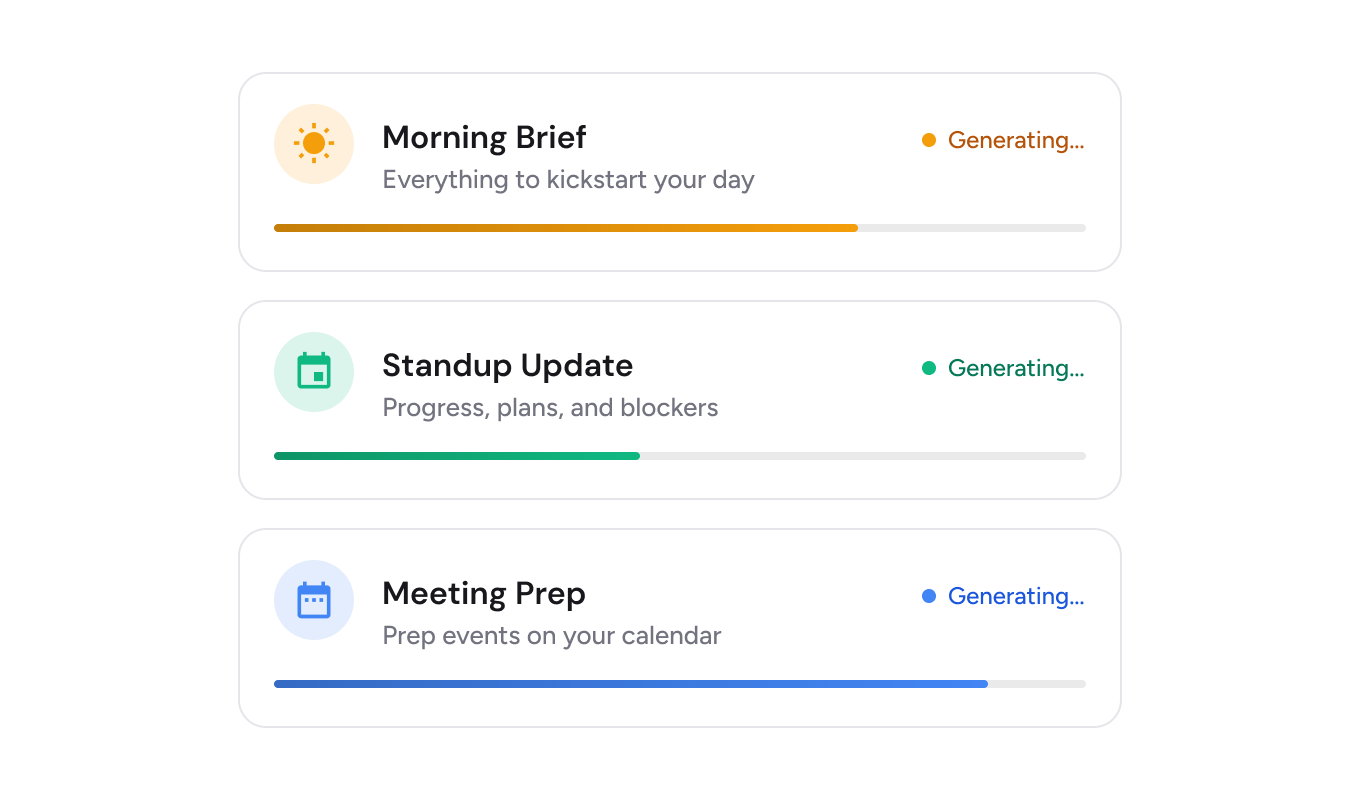
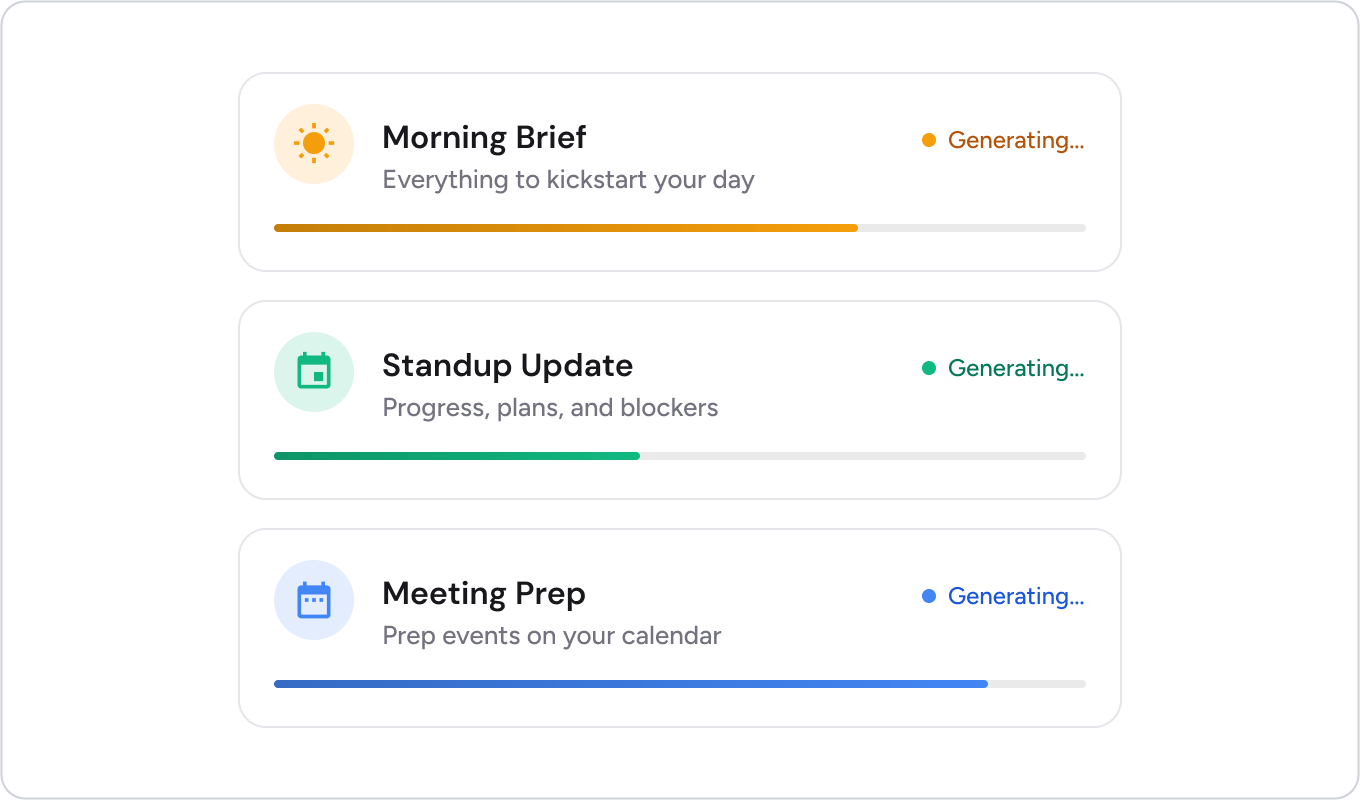
Match 6.1.0 notes to desktop app
Use the exact app copy and image set, with light/dark variants and baked rounded gray borders for clean GitHub rendering.

Changed region(s): [[0.0, 0.0, 1.0, 1.0]]

diff --git a/releases/Whats New in Pieces 6.1.0.md b/releases/Whats New in Pieces 6.1.0.md
@@ -1,150 +1,162 @@
-# What's new in Pieces 6.1.0
+# Pieces Desktop 6.1.0: Claude Desktop MCP, Grounded Summaries & Person Intelligence
+### Release Date: July 29, 2026
 
-**Release date:** July 29, 2026
-**Pieces Desktop:** 6.1.0
+**Want to read this in your browser or explore past releases?** [View all release notes on GitHub](https://github.com/pieces-app/pro_tips/tree/main/releases)
 
-Pieces 6.0.0 changed how the agent reasons across your memory. Pieces 6.1.0 improves the source material behind that reasoning. Summaries now use open-file signals and browser activity, while the people, tags, and anchors they mention appear as live references instead of plain text. This extends the grounding introduced with Google Calendar in 6.0.0 to more of your workstream.
+6.0.0 rebuilt how the agent reasons about your memory. 6.1.0 is about what that reasoning is standing on.
 
-The release also removes several points of friction. Pieces provides managed MCP setup for seven clients shown in Settings, while OpenClaw links to setup documentation. Claude Desktop no longer needs Node.js, npx, or a separate bridge installation. Single-click summaries can run concurrently, Long-Term Memory can pause for a custom duration, and capture uses fewer resources when your computer is idle or locked.
+Two themes run through this release. The first is **grounding** — summaries now read the real signals instead of interpreting a noisy picture of your day. The actual files you had open. Your actual browsing activity. The real people you interact with, as live references rather than plain text. It is the same idea behind connecting your calendar in 6.0.0, applied to the rest of your workstream.
+
+The second is **getting out of your way**. Claude Desktop finally connects without a Node.js prerequisite. Single-click summaries run in parallel instead of queuing. You can pause Long-Term Memory for any duration you like. And capture itself got meaningfully lighter, with Pieces backing off when you are not at your desk.
+
+Here is what is new.
 
 ---
 
-## 🔗 MCP setup for the agents you already use
+## 🔗 Connect Claude Desktop Without Installing Anything
 
 <picture>
   <source media="(prefers-color-scheme: dark)" srcset="../assets/6_1_0_claude_desktop_mcp_setup_dark.png">
-  <img src="../assets/6_1_0_claude_desktop_mcp_setup_light.png" alt="Pieces MCP settings showing Claude Code, Claude Desktop, and Cursor connected to Pieces.">
+  <img src="../assets/6_1_0_claude_desktop_mcp_setup_light.png" alt="Claude Desktop MCP Setup">
 </picture>
 
-The **Settings → MCP** page is the central place to connect Pieces to the agents you use every day. Pieces 6.1.0 presents eight clients and provides managed setup for seven of them.
+Connecting Claude Desktop to Pieces no longer requires installing anything.
 
-| Client | How Pieces connects it |
-|--------|-------------------------|
-| Claude Code | Managed Streamable HTTP connection, plus a Pieces skill |
-| Claude Desktop | Managed stdio connection through the bundled Pieces MCP bridge |
-| Cursor | Managed Streamable HTTP connection, plus a Pieces rule |
-| GitHub Copilot in VS Code | Managed connection through the VS Code user-profile `mcp.json` |
-| Codex CLI and IDE extension | Managed connection through the shared Codex configuration |
-| Google Gemini CLI | Managed connection through Gemini's settings file |
-| Antigravity | Managed connection through its Gemini configuration directory |
-| OpenClaw | Setup documentation from the MCP catalog |
+Unlike editors that connect over HTTP, Claude Desktop talks to Pieces through a **stdio bridge** — and until now that bridge needed Node.js and npx on your machine, which is exactly where most setups fell apart. Pieces now ships that bridge itself, **code-signed**, on macOS, Windows, and Linux. Pick Claude Desktop, click connect, and Pieces writes the config for you.
 
-Available clients appear first. If a client is not installed or cannot be detected, Pieces keeps it in the catalog but hides the connect action until it becomes available.
+### What is better
 
-### Claude Desktop no longer needs Node.js or npx
+- **No Node.js or npx prerequisite** — the bridge comes bundled with Pieces
+- A clear prompt when Claude Desktop needs to restart to pick up the change, with a button that does it for you
+- On **Linux**, Pieces now notices Claude Desktop is already running and walks you through quitting first, instead of silently writing a config Claude would immediately overwrite
+- **Snap and Flatpak** installs work — sandboxed bridge paths finally resolve correctly
 
-The MCP catalog and one-click setup arrived in Pieces 6.0.0. In 6.1.0, Claude Desktop's setup no longer depends on Node.js, npx, or `mcp-remote`.
+### Why it matters
 
-Claude Desktop is different from HTTP-native clients such as Cursor, Claude Code, Codex, and Gemini CLI. It communicates over stdio, so earlier versions of Pieces relied on Node.js, npx, and `mcp-remote` to bridge Claude Desktop to PiecesOS.
+One-click MCP setup shipped in 6.0.0, but Claude Desktop was the client most likely to leave you hand-editing JSON anyway. If it is the one client you could never quite get connected, this is the release that fixes it.
 
-PiecesOS now bundles `pieces-mcp-bridge`, and the desktop app writes the correct Claude Desktop configuration automatically. You no longer need to install Node.js, run npx, install `mcp-remote`, or edit Claude's JSON configuration by hand.
-
-The setup also handles the details around the connection:
-
-- On macOS and Windows, Pieces can tell you when Claude Desktop needs to restart and relaunch it for you.
-- On Linux, where Claude Desktop has no official build, Pieces checks its Electron lock files and, when it appears to be running, guides you through quitting and reopening it manually. Automatic relaunch is not available.
-- PiecesOS installations distributed through Snap or Flatpak resolve the bundled bridge through stable, host-visible paths.
-- The bridge is signed as part of the macOS package and Authenticode-signed for Windows releases.
-
-Keep PiecesOS running while you connect Claude Desktop so the desktop app can locate and validate the bundled bridge. Then open **Settings → MCP**, choose **Claude Desktop**, and connect it.
+Head to **Settings → MCP** to connect.
 
 ---
 
-## 🗂 Ground summaries in open files and browser activity
+## 🗂 Summaries Grounded in the Files and Sites You Actually Used
 
-Pieces now uses the files open during a summary's time window and your browser activity as source context. Earlier versions inferred much of this from screen captures and focus events.
+<picture>
+  <source media="(prefers-color-scheme: dark)" srcset="../assets/6_1_0_summaries_grounded_in_files_and_browsing_dark.png">
+  <img src="../assets/6_1_0_summaries_grounded_in_files_and_browsing_light.png" alt="Grounded Summaries">
+</picture>
 
-The open-file signal includes files that your operating system never marked as recently used.
+Your summaries now know **which files you actually had open** and **which sites you actually visited**.
 
-Browser activity now contributes directly to the same summary context. When a summary references a source file, the citation is clickable, so you can move from the summary back to the artifact without searching for it again.
+Previously Pieces inferred a lot of this from what happened to be on screen. Now it reads the real signals: the files you had open during the window being summarized — including ones your OS never registered as "recently used" — and your actual browsing activity, instead of guessing from focus events.
 
-This follows the approach introduced with Google Calendar in 6.0.0. Pieces reads from the underlying source instead of reconstructing the entire activity from visual evidence. The result is a summary tied to the files and sites involved in the work it describes.
+### What is new
+
+- Real open-file signals, not focus-event approximations
+- Actual browsing activity feeding summary context
+- **Files cited in a summary are clickable** — jump straight from "here is what you worked on" to the thing you worked on
+
+### Why it matters
+
+It is the same idea behind connecting your calendar: stop interpreting a noisy picture of your day and read from the source instead. The result is summaries that point at real artifacts you can open, not approximations of them.
 
 ---
 
-## 👤 See person context from a summary
+## 👤 Hover Anyone in a Summary to See Who They Are
 
-Pieces detects people mentioned across your workstream and makes their names hoverable in summaries. Hovering a name opens a persona card with the person's identity, contact information, role, and an evolving picture of how you work together.
+<picture>
+  <source media="(prefers-color-scheme: dark)" srcset="../assets/6_1_0_inline_person_intelligence_dark.png">
+  <img src="../assets/6_1_0_inline_person_intelligence_light.png" alt="Inline Person Intelligence">
+</picture>
 
-The relationship context comes from your interactions over time rather than a static contact record. Tags and anchors also appear as live references, so the entities in a summary can carry context of their own.
+The people in your summaries are now **people you can actually learn about**.
 
-This helps when you need to place someone you met once, review an attendee before a meeting without leaving the page, or return to the last decision you made with a teammate.
+Pieces detects who gets mentioned across your workstream and turns each one into a rich, hoverable reference. Hover any name in a summary and you will get a **persona card** — who they are, how to reach them, their role, and a running picture of how you two actually work together, built from your real interactions over time rather than a static contact record.
 
-Pieces 6.0.0 improved how the product distinguishes people. Pieces 6.1.0 exposes that understanding inside summaries, briefs, and chats.
+Tags and anchors work the same way, so the entities in your summaries are live references instead of plain text.
+
+### When it helps
+
+- A summary mentions someone you have met once and cannot quite place
+- You are walking into a meeting and want context on an attendee without leaving the page
+- You need to recall what you and a teammate last decided together
+
+### Why it matters
+
+6.0.0 improved how well Pieces tells people apart. This release puts that understanding somewhere you can actually use it. The better Pieces understands who is who, the more useful every summary, brief, and chat built on top of that becomes.
 
 ---
 
-## 🔀 Run several single-click summaries at once
+## 🔀 Run Several Single-Click Summaries at Once
 
 <picture>
   <source media="(prefers-color-scheme: dark)" srcset="../assets/6_1_0_parallel_single_click_summaries_dark.png">
-  <img src="../assets/6_1_0_parallel_single_click_summaries_light.png" alt="Morning Brief, Standup Update, and Meeting Prep generating simultaneously with independent progress bars." width="730">
+  <img src="../assets/6_1_0_parallel_single_click_summaries_light.png" alt="Parallel Single-Click Summaries">
 </picture>
 
-Single-click summaries can now run concurrently. You can start a **Day Recap**, **Standup Update**, and **Meeting Prep** without waiting for each one to finish.
+Single-click summaries no longer wait in line.
 
-Rows showing generation progress update without rebuilding the entire timeline. Scrolling and reading remain responsive while several summaries are running.
+You can now run several at once instead of waiting for each one to finish before kicking off the next. Start a **Day Recap**, a **Standup Update**, and a **Meeting Prep** together and let them generate side by side.
+
+The timeline stays smooth while they work, too — generating rows no longer force the whole list to rebuild, so scrolling and reading stay responsive even with several summaries in flight.
 
 ---
 
-## ⏸ Pause Long-Term Memory for a custom duration
+## ⏸ Pause Long-Term Memory for Exactly as Long as You Want
 
 <picture>
   <source media="(prefers-color-scheme: dark)" srcset="../assets/6_1_0_custom_duration_ltm_pause_dark.png">
-  <img src="../assets/6_1_0_custom_duration_ltm_pause_light.png" alt="Pieces dialog for pausing LTM Audio for a custom number of minutes, hours, or days.">
+  <img src="../assets/6_1_0_custom_duration_ltm_pause_light.png" alt="Custom Duration LTM Pause">
 </picture>
 
-You can now pause **LTM-2.7** and **LTM Audio** for a custom number of minutes, hours, or days instead of choosing only from presets.
+Pausing Long-Term Memory is no longer limited to the presets.
 
-Pieces displays a clear "Paused until" label with the time capture will resume. This makes it easier to pause for a confidential call, personal browsing, or time away without leaving capture disabled indefinitely.
+You can now pause **LTM-2.7 and LTM Audio for any duration you like** — minutes, hours, or days — and Pieces shows a clear "Paused until" label so you always know exactly when capture picks back up. No more pausing indefinitely and forgetting, or wondering whether you are still paused.
 
-The custom duration complements the existing controls for captured data and allowed applications by adding control over when capture runs. Set it from the user popover or **Settings → Long-Term Memory**.
+Handy for a confidential call, a stretch of personal browsing, or a few days off.
 
----
+### Why it matters
 
-## 🔋 Use fewer resources when you step away
+This rounds out your memory controls. You could already manage what Pieces has captured and which apps it is allowed to see — now you control exactly **when** it is paying attention.
 
-Memory capture now performs less work across several parts of the pipeline:
-
-- Change detection runs against a smaller frame.
-- macOS captures at nominal resolution instead of full Retina resolution.
-- Windows uses an event-driven wait instead of constant polling.
-- Audio transcription workers share one model instead of loading a separate copy for each worker.
-
-Capture also responds to whether you are present. It stops when the screen is locked and progressively lowers its sampling rate when the computer is idle.
-
-Together, these changes reduce CPU, memory, and battery use while avoiding capture noise from periods when you are away from the computer.
+Available from the user popover, or **Settings → Long-Term Memory**.
 
 ---
 
-## Try Pieces 6.1.0
+## 🔋 Lighter on Your Battery, and Paused When You Step Away
 
-1. If Claude Desktop did not connect before, go to **Settings → MCP** and reconnect it.
-2. Connect another agent you use, such as Cursor, Claude Code, Codex, or Gemini CLI.
-3. Generate a **Day Recap**, find a cited file, and open it from the summary.
-4. Open a recent summary and hover a person's name to view the persona card.
-5. Start a **Standup Update** while a **Day Recap** is still running.
-6. Pause Long-Term Memory for a specific duration and confirm the "Paused until" time.
+Pieces got noticeably lighter on your machine — and it now knows when to stop watching.
 
----
+Memory capture went through a real efficiency pass. Change detection runs against a much smaller frame, macOS captures at nominal instead of full Retina resolution, and Windows moved to an **event-driven wait instead of constant polling**. Audio transcription now shares a single model across workers rather than loading a separate copy for each one.
 
-## What's next
+Just as importantly, capture now pays attention to whether you are actually there. When your **screen is locked**, Pieces stops capturing entirely. When you go **idle**, it backs off progressively instead of sampling at full rate — so an unattended laptop is not burning battery recording a screen nobody is looking at.
 
-- Cross-device real-time sync to keep memories, conversations, and settings current across your devices
-- Shared Artificial Memories so teammates can use captured context together
-- Outlook Calendar integration for calendar-aware context from Microsoft Outlook
+Less CPU, less memory, longer battery, and less captured noise from moments you were not even at your desk.
 
 ---
 
-## Learn more
+## Getting Started with 6.1.0
 
-- [Pieces Documentation](https://docs.pieces.app/): Guides, references, and how-tos for the Pieces platform
-- [What's New in Pieces 6.0.0](./Whats%20New%20in%20Pieces%206.0.0.md): Agentic LTM, Meeting Prep, Google Calendar, and Reflection Mode
-- [Pieces MCP and LTM Tools Reference](../guides/MCP/Pieces%20MCP%20and%20LTM%20Tools%20Reference.md): Reference for the tools exposed by the Pieces MCP server
-- [All Pieces release notes](https://github.com/pieces-app/pro_tips/tree/main/releases)
+1. **Reconnect Claude Desktop** — head to Settings → MCP and connect it, especially if you gave up on it before
+2. **Generate a Day Recap** — look for the cited files and click straight through to one
+3. **Hover a name** — open any recent summary and hover someone mentioned in it to see their persona card
+4. **Kick off two summaries at once** — start a Standup Update without waiting for your Day Recap to finish
+5. **Try a custom pause** — pause Long-Term Memory for a specific stretch from the user popover and watch for the "Paused until" label
 
 ---
 
-<table width="100%"><tr>
-<td>&nbsp;&nbsp;<a href="./Whats%20New%20in%20Pieces%206.0.0.md">← Previous: What's New in Pieces 6.0.0</a>&nbsp;&nbsp;</td>
-</tr></table>
+## What is Next
+
+- **Cross-Device Real-Time Sync** — seamless sync so your memories, conversations, and settings are current wherever you work
+- **Shared Artificial Memories** — share Long-Term Memories with teammates so captured context benefits the whole team
+- **Outlook Calendar Integration** — the same calendar-aware intelligence for Microsoft Outlook users
+
+Thanks for being part of the Pieces community.
+
+---
+
+## Learn More
+
+- **[Pieces Documentation](https://docs.pieces.app/)** — Guides, references, and how-tos across the entire Pieces platform
+- **[What's New in Pieces 6.0.0](https://github.com/pieces-app/pro_tips/blob/main/releases/Whats%20New%20in%20Pieces%206.0.0.md)** — Agentic LTM, Meeting Prep, Google Calendar, and Reflection Mode
+- **[Pieces MCP and LTM Tools Reference](https://github.com/pieces-app/pro_tips/blob/main/guides/MCP/Pieces%20MCP%20and%20LTM%20Tools%20Reference.md)** — Full reference for every MCP tool the Pieces server exposes
